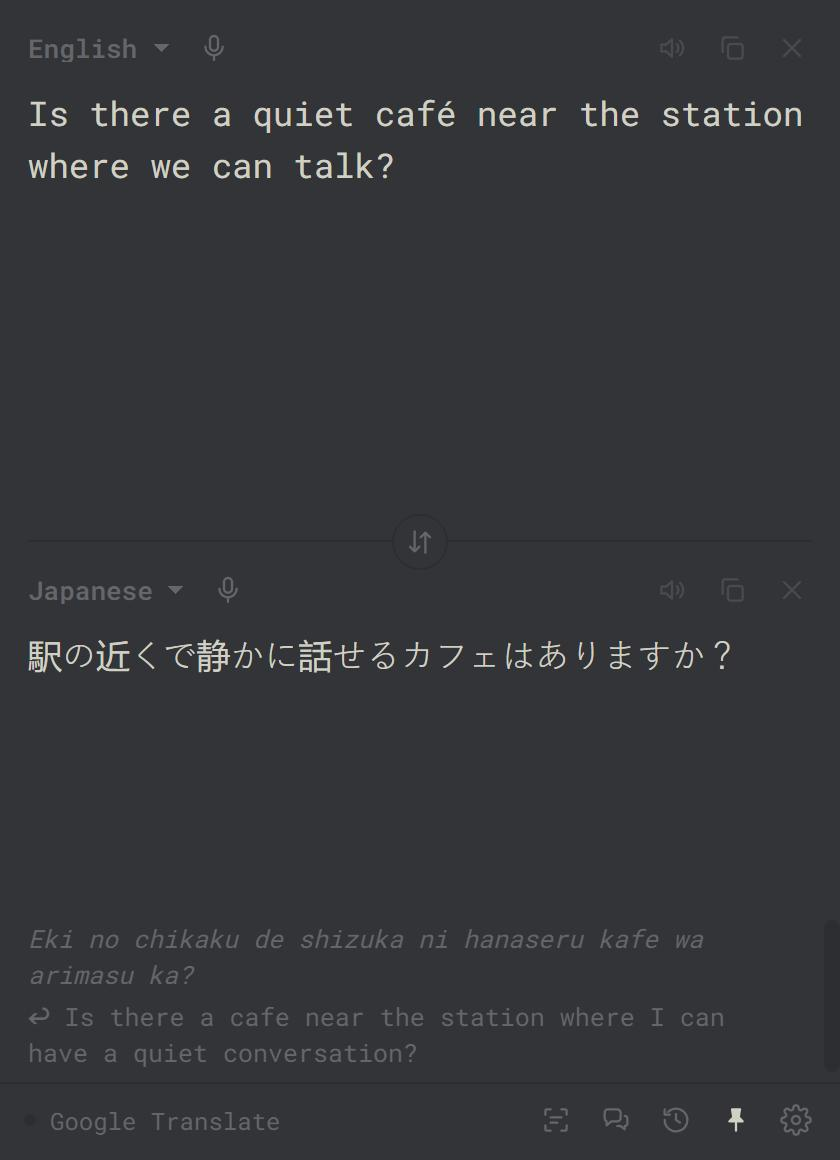
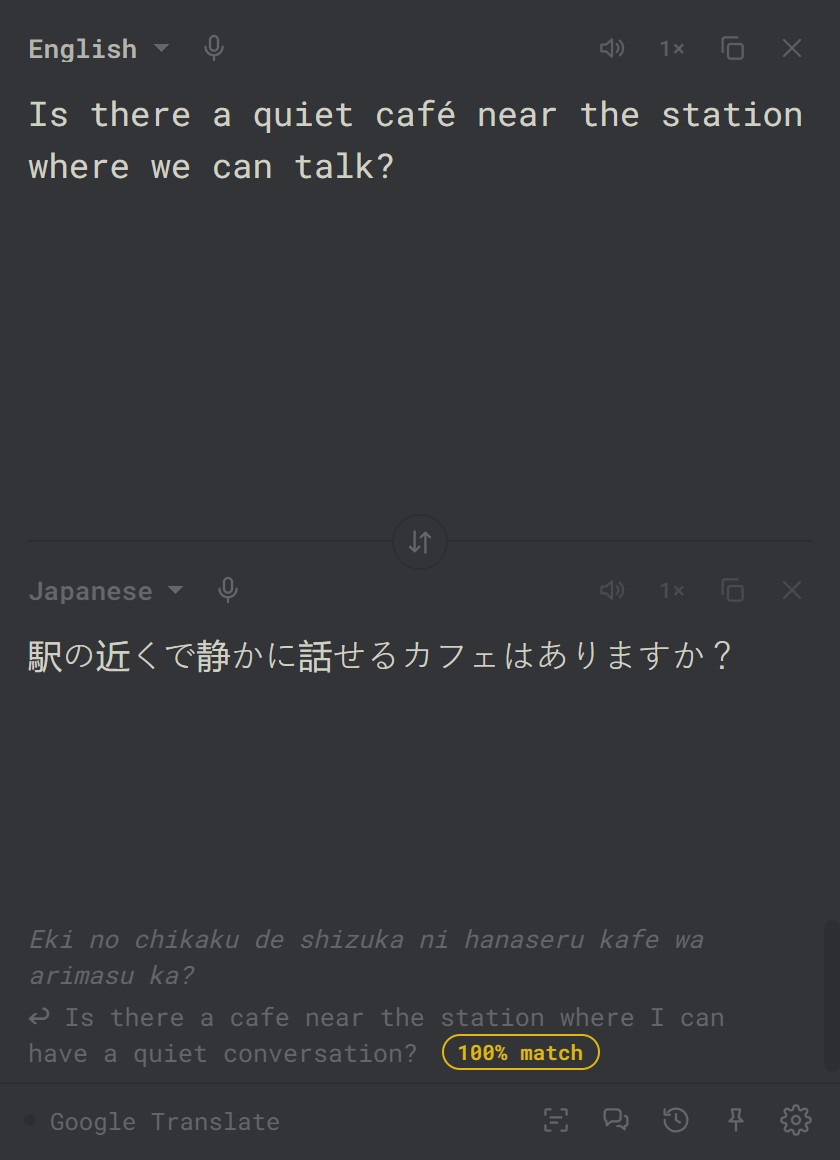
README and website: new screenshots with the match score, updated features
Both screenshots now show the back-translation score (the Japanese one comes
back reworded and still scores 100%) and the speed button. The website lists
read-aloud word highlighting and speeds, and the match score with a link to
the method in the README.

diff --git a/docs/index.html b/docs/index.html
@@ -60,8 +60,8 @@
   </div>
 
   <div class="shots">
-    <img src="screenshot-dark.jpg" alt="Vox2 translating English to Japanese, with romaji and a back-translation, in a dark theme" width="420" height="580">
-    <img src="screenshot-light.jpg" alt="Vox2 translating English to Vietnamese in a light theme" width="420" height="580">
+    <img src="screenshot-dark.jpg" alt="Vox2 translating English to Japanese, with romaji and a reworded back-translation scored 100% match, in a dark theme" width="420" height="580">
+    <img src="screenshot-light.jpg" alt="Vox2 translating English to Vietnamese, with a back-translation scored 100% match, in a light theme" width="420" height="580">
   </div>
 
   <h2>What it does</h2>
@@ -70,10 +70,11 @@
     <li><strong>From any app.</strong> Select text anywhere and press a shortcut; the translation appears in a small bubble by your cursor.</li>
     <li><strong>Snip &amp; translate.</strong> Draw a box around text on screen (images, video subtitles, apps that block copying) and read it in your language.</li>
     <li><strong>Dictation.</strong> Tap or hold a key and talk. Speech is transcribed on your machine, and can be typed straight into the app you're using.</li>
-    <li><strong>Read aloud.</strong> Natural male and female voices in about 75 languages.</li>
+    <li><strong>Read aloud.</strong> Natural male and female voices in about 75 languages. Each word lights up as it is spoken; slow, normal or fast.</li>
     <li><strong>Conversation mode.</strong> Two people take turns talking; each phrase is translated and spoken to the other person.</li>
     <li><strong>Engines.</strong> Google Translate (free), or Claude, ChatGPT or Gemini with your own API key, with tone and "who it's for" so pronouns come out right.</li>
-    <li><strong>Small things.</strong> Detect language, pinned languages, pronunciation for non-Latin scripts, back-translation, 30-item history, always on top, 37 themes.</li>
+    <li><strong>Back-translation with a match score.</strong> See your translation turned back into your language, scored by how much of your meaning survived. It compares meaning, not exact words, on your computer. <a href="https://github.com/chrisqtruong/vox2#back-translation-fidelity-scoring">How it works</a>.</li>
+    <li><strong>Small things.</strong> Detect language, pinned languages, pronunciation for non-Latin scripts, 30-item history, always on top, 37 themes.</li>
   </ul>
 
   <h2>Shortcuts</h2>

diff --git a/README.md b/README.md
@@ -8,8 +8,8 @@ Type, paste, speak or snip text in any app and read it, or hear it, in another l
 <p align="center"><a href="https://github.com/chrisqtruong/vox2/releases/latest/download/Vox2-setup.exe"><b>Download for Windows</b></a> · <a href="https://chrisqtruong.github.io/vox2">Website</a> · <a href="https://github.com/chrisqtruong/vox2/releases">Releases</a></p>
 
 <p align="center">
-  <img src="docs/screenshot-dark.jpg" width="320" alt="English to Japanese with romaji and back-translation">
-  <img src="docs/screenshot-light.jpg" width="320" alt="English to Vietnamese">
+  <img src="docs/screenshot-dark.jpg" width="320" alt="English to Japanese with romaji, and a reworded back-translation that still scores 100% match">
+  <img src="docs/screenshot-light.jpg" width="320" alt="English to Vietnamese with a back-translation scored 100% match">
 </p>
 
 ## What it does
